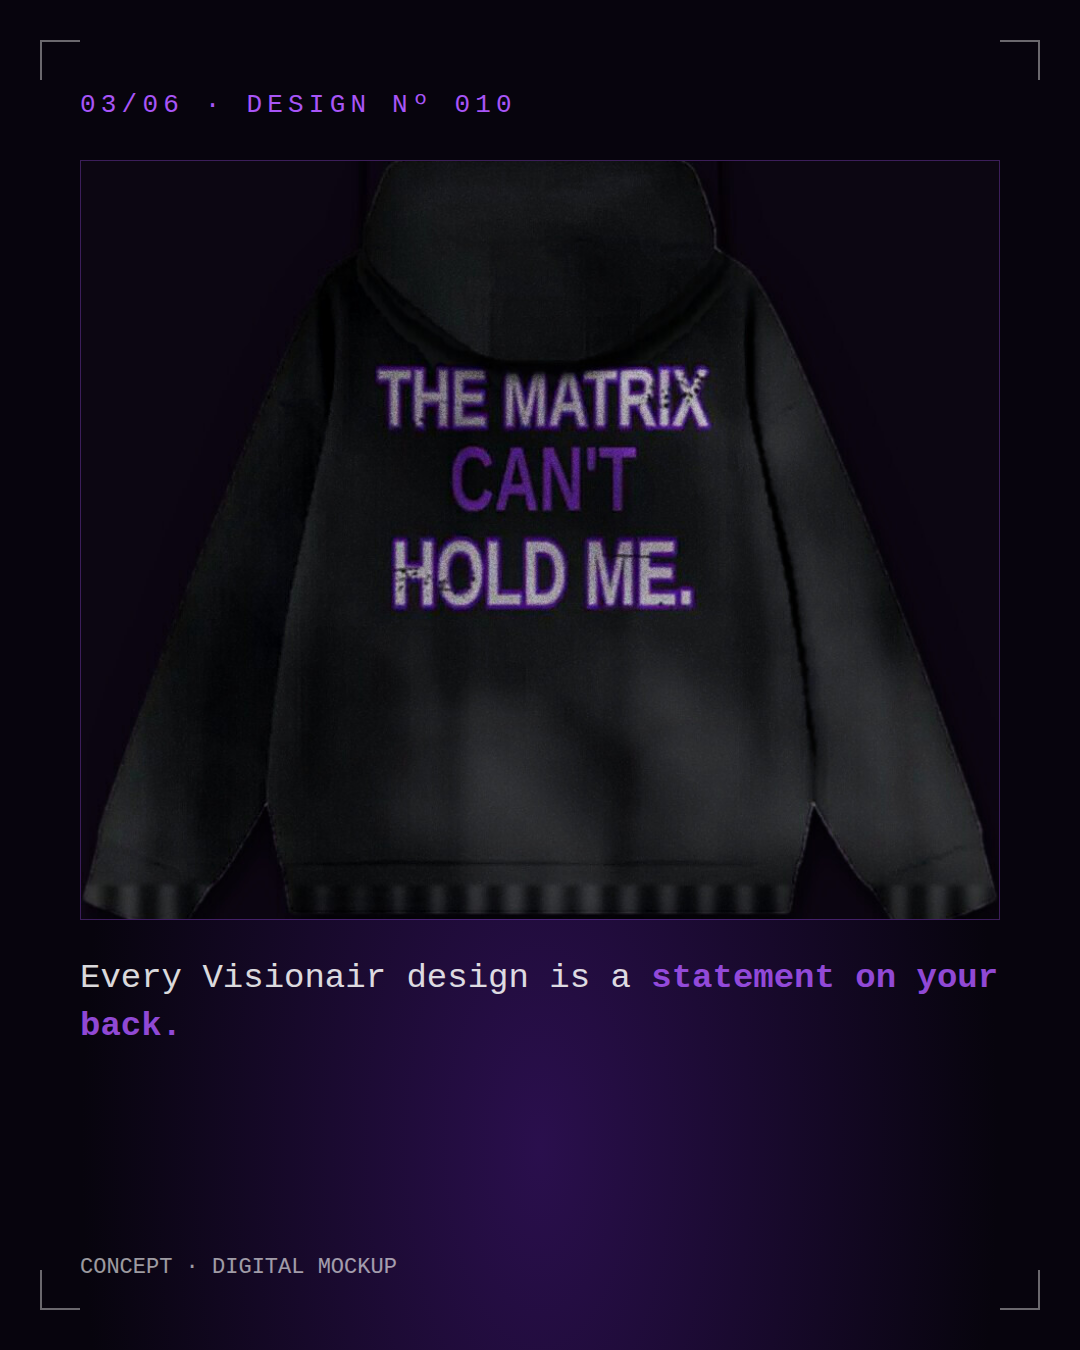
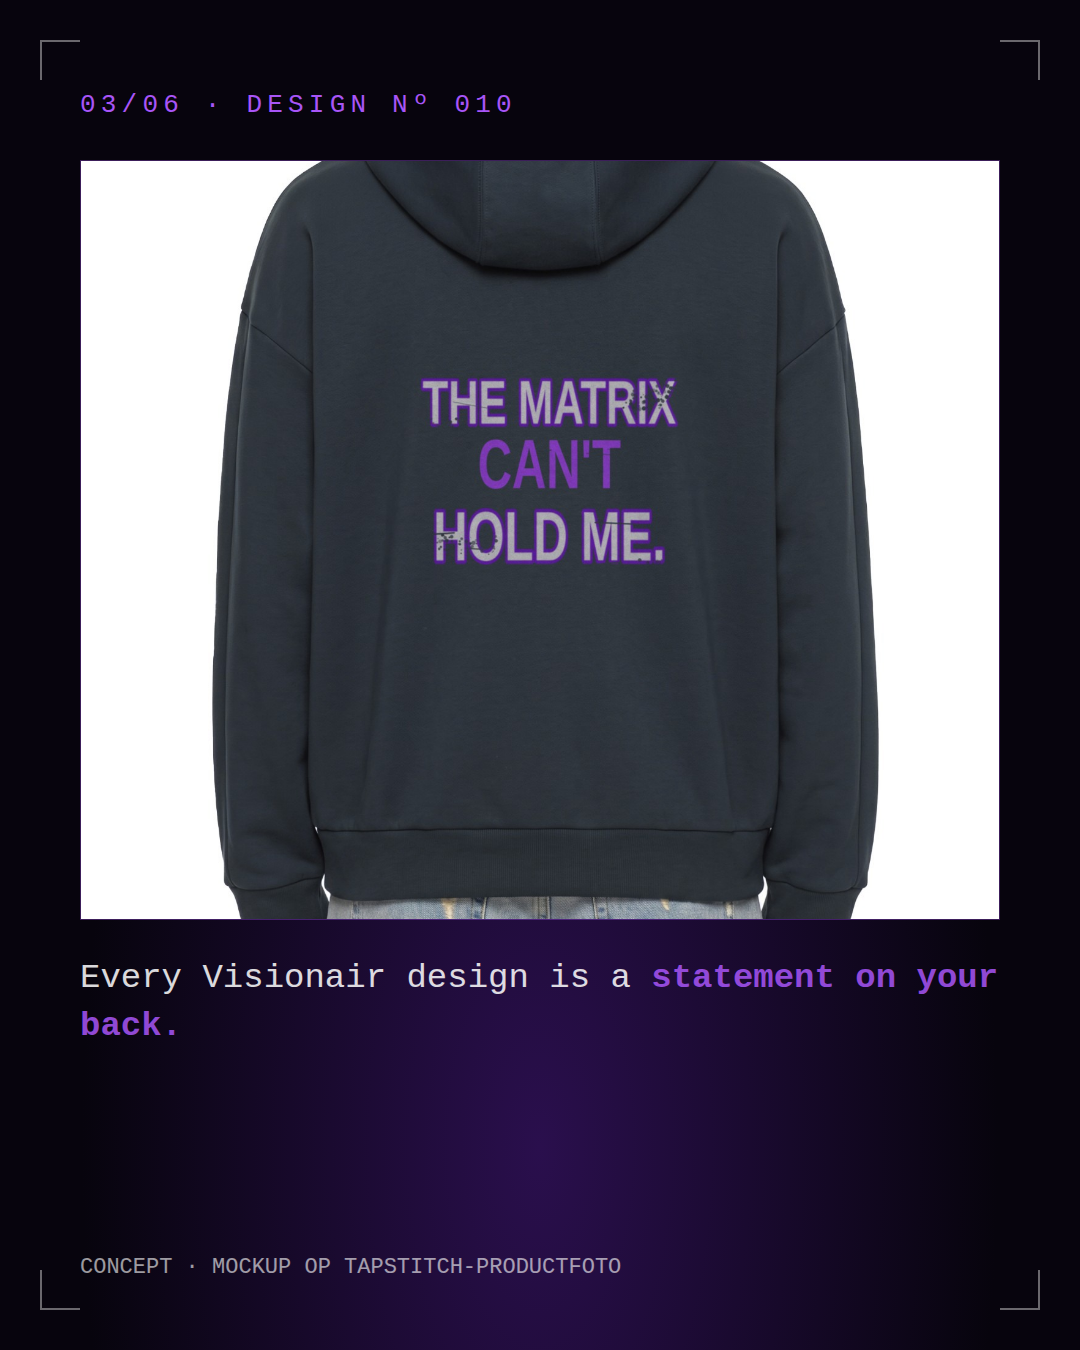
Les 042: productfoto-mockups op Tapstitch-basisfoto's + slides
Claude-Session: https://claude.ai/code/session_01VxmfntShTqejzUpaLZDbQH

diff --git a/studentenpakket-v16/mijn-project/content/batch/slides-bron.html b/studentenpakket-v16/mijn-project/content/batch/slides-bron.html
@@ -16,10 +16,10 @@ p{font-size:34px;line-height:1.4;opacity:.85;margin-top:30px}
 .tag{position:absolute;top:96px;right:80px;font-size:20px;opacity:.55}
 ul{list-style:none;margin-top:40px}li{font-size:38px;padding:22px 0;border-bottom:1px solid #ffffff22}li::before{content:"> ";color:#a855f7}
 </style></head><body>
-<div class="s" id="s1"><i class="c c1"></i><i class="c c2"></i><i class="c c3"></i><i class="c c4"></i><div class="k">VISIONAIR SOCIETY · 01/06</div><h1>150 DESIGNS.<br>6 DROPS.<br><em>ONE SOCIETY.</em></h1><div class="grid"><img src="file:///home/user/187n-codex-hermes-masterclass/studentenpakket-v16/outputs/5.5/2026-10-02-01/content/batch/real/vs-001.jpg"><img src="file:///home/user/187n-codex-hermes-masterclass/studentenpakket-v16/outputs/5.5/2026-10-02-01/content/batch/real/vs-002.jpg"><img src="file:///home/user/187n-codex-hermes-masterclass/studentenpakket-v16/outputs/5.5/2026-10-02-01/content/batch/real/vs-009.jpg"><img src="file:///home/user/187n-codex-hermes-masterclass/studentenpakket-v16/outputs/5.5/2026-10-02-01/content/batch/real/vs-012.jpg"><img src="file:///home/user/187n-codex-hermes-masterclass/studentenpakket-v16/outputs/5.5/2026-10-02-01/content/batch/real/vs-006.jpg"><img src="file:///home/user/187n-codex-hermes-masterclass/studentenpakket-v16/outputs/5.5/2026-10-02-01/content/batch/real/vs-053.jpg"></div><div class="f"><span>CONCEPT · DIGITAL MOCKUPS</span><span>SWIPE →</span></div></div>
+<div class="s" id="s1"><i class="c c1"></i><i class="c c2"></i><i class="c c3"></i><i class="c c4"></i><div class="k">VISIONAIR SOCIETY · 01/06</div><h1>150 DESIGNS.<br>6 DROPS.<br><em>ONE SOCIETY.</em></h1><div class="grid"><img src="/home/user/187n-codex-hermes-masterclass/studentenpakket-v16/mijn-project/brand/mockups/foto/vs-001-back-flat-dark.jpg"><img src="/home/user/187n-codex-hermes-masterclass/studentenpakket-v16/mijn-project/brand/mockups/foto/vs-002-back-flat-dark.jpg"><img src="/home/user/187n-codex-hermes-masterclass/studentenpakket-v16/mijn-project/brand/mockups/foto/vs-009-back-flat-dark.jpg"><img src="/home/user/187n-codex-hermes-masterclass/studentenpakket-v16/mijn-project/brand/mockups/foto/vs-012-back-flat-dark.jpg"><img src="/home/user/187n-codex-hermes-masterclass/studentenpakket-v16/mijn-project/brand/mockups/foto/vs-006-back-flat-dark.jpg"><img src="/home/user/187n-codex-hermes-masterclass/studentenpakket-v16/mijn-project/brand/mockups/foto/vs-053-back-flat-dark.jpg"></div><div class="f"><span>CONCEPT · MOCKUP OP TAPSTITCH-PRODUCTFOTO</span><span>SWIPE →</span></div></div>
 <div class="s" id="s2"><i class="c c1"></i><i class="c c2"></i><i class="c c3"></i><i class="c c4"></i><div class="k">02/06</div><h1 style="margin-top:300px">MOST<br>STREETWEAR<br>SAYS <em>NOTHING.</em></h1><p>Just a logo.</p></div>
-<div class="s" id="s3"><i class="c c1"></i><i class="c c2"></i><i class="c c3"></i><i class="c c4"></i><div class="k">03/06 · DESIGN Nº 010</div><img class="big" src="file:///home/user/187n-codex-hermes-masterclass/studentenpakket-v16/outputs/5.5/2026-10-02-01/content/batch/real/founding-member-hoodie-back.jpg"><p>Every Visionair design is a <b style="color:#a855f7">statement on your back.</b></p><div class="f"><span>CONCEPT · DIGITAL MOCKUP</span><span></span></div></div>
-<div class="s" id="s4"><i class="c c1"></i><i class="c c2"></i><i class="c c3"></i><i class="c c4"></i><div class="k">04/06 · THE DROPS</div><div class="tiles"><div><img src="file:///home/user/187n-codex-hermes-masterclass/studentenpakket-v16/outputs/5.5/2026-10-02-01/content/batch/real/vs-001.jpg"><span>SIMULATION</span></div><div><img src="file:///home/user/187n-codex-hermes-masterclass/studentenpakket-v16/outputs/5.5/2026-10-02-01/content/batch/real/vs-002.jpg"><span>ABDUCTED</span></div><div><img src="file:///home/user/187n-codex-hermes-masterclass/studentenpakket-v16/outputs/5.5/2026-10-02-01/content/batch/real/vs-009.jpg"><span>CLASSIFIED</span></div><div><img src="file:///home/user/187n-codex-hermes-masterclass/studentenpakket-v16/outputs/5.5/2026-10-02-01/content/batch/real/vs-012.jpg"><span>AWAKE</span></div><div><img src="file:///home/user/187n-codex-hermes-masterclass/studentenpakket-v16/outputs/5.5/2026-10-02-01/content/batch/real/vs-006.jpg"><span>BUILD MODE</span></div><div><img src="file:///home/user/187n-codex-hermes-masterclass/studentenpakket-v16/outputs/5.5/2026-10-02-01/content/batch/real/vs-053.jpg"><span>THE SOCIETY</span></div></div><div class="f"><span>CONCEPT · DIGITAL MOCKUPS</span><span>25 DESIGNS PER DROP</span></div></div>
+<div class="s" id="s3"><i class="c c1"></i><i class="c c2"></i><i class="c c3"></i><i class="c c4"></i><div class="k">03/06 · DESIGN Nº 010</div><img class="big" src="/home/user/187n-codex-hermes-masterclass/studentenpakket-v16/mijn-project/brand/mockups/foto/fm-010-back-model.jpg"><p>Every Visionair design is a <b style="color:#a855f7">statement on your back.</b></p><div class="f"><span>CONCEPT · MOCKUP OP TAPSTITCH-PRODUCTFOTO</span><span></span></div></div>
+<div class="s" id="s4"><i class="c c1"></i><i class="c c2"></i><i class="c c3"></i><i class="c c4"></i><div class="k">04/06 · THE DROPS</div><div class="tiles"><div><img src="/home/user/187n-codex-hermes-masterclass/studentenpakket-v16/mijn-project/brand/mockups/foto/vs-001-back-flat-dark.jpg"><span>SIMULATION</span></div><div><img src="/home/user/187n-codex-hermes-masterclass/studentenpakket-v16/mijn-project/brand/mockups/foto/vs-002-back-flat-dark.jpg"><span>ABDUCTED</span></div><div><img src="/home/user/187n-codex-hermes-masterclass/studentenpakket-v16/mijn-project/brand/mockups/foto/vs-009-back-flat-dark.jpg"><span>CLASSIFIED</span></div><div><img src="/home/user/187n-codex-hermes-masterclass/studentenpakket-v16/mijn-project/brand/mockups/foto/vs-012-back-flat-dark.jpg"><span>AWAKE</span></div><div><img src="/home/user/187n-codex-hermes-masterclass/studentenpakket-v16/mijn-project/brand/mockups/foto/vs-006-back-flat-dark.jpg"><span>BUILD MODE</span></div><div><img src="/home/user/187n-codex-hermes-masterclass/studentenpakket-v16/mijn-project/brand/mockups/foto/vs-053-back-flat-dark.jpg"><span>THE SOCIETY</span></div></div><div class="f"><span>CONCEPT · MOCKUP OP TAPSTITCH-PRODUCTFOTO</span><span>25 DESIGNS PER DROP</span></div></div>
 <div class="s" id="s5"><i class="c c1"></i><i class="c c2"></i><i class="c c3"></i><i class="c c4"></i><div class="k">05/06 · THE HOODIE</div><h1 style="font-size:80px">YOUR NUMBER IS YOUR <em>MEMBERSHIP.</em></h1><ul><li>Black · 500 gsm</li><li>Boxy oversized · S–2XL</li><li>Design on the back</li><li>Founding Member access</li></ul></div>
 <div class="s" id="s6"><i class="c c1"></i><i class="c c2"></i><i class="c c3"></i><i class="c c4"></i><div class="k">06/06</div><img class="logo" src="file:///home/user/187n-codex-hermes-masterclass/studentenpakket-v16/mijn-project/storefront/assets/img/logo-white.png"><h1 style="text-align:center;font-size:84px">POP-UP IN EUROPE <em>FIRST.</em></h1><p style="text-align:center">Online 7 days later.<br>Follow to get the date.</p><div style="text-align:center"><span class="cta">> JOIN THE SOCIETY</span></div></div>
 <div class="s" id="a3"><i class="c c1"></i><i class="c c2"></i><i class="c c3"></i><i class="c c4"></i><div class="k">FOUNDING MEMBER HOODIE</div><h1 style="font-size:84px">WHAT DO YOU<br>ACTUALLY GET<br>FOR <em>€64,95?</em></h1><ul><li>Heavyweight 500 gsm fleece</li><li>Boxy oversized fit</li><li>Design on the back, VS logo left chest</li><li>Your own member number</li><li>Founding Member access</li></ul><div><span class="cta">> JOIN THE SOCIETY</span></div><div class="tag">CONCEPT</div></div>

diff --git a/studentenpakket-v16/mijn-project/brand/mockups/bases/HERKOMST.md b/studentenpakket-v16/mijn-project/brand/mockups/bases/HERKOMST.md
@@ -1,0 +1,4 @@
+# Basisfoto's
+tapstitch-1..5.jpg — aangeleverd door student (2026-10-02), blanke Tapstitch-productfoto's (flat voor/achter, model voor/achter/zij).
+Gebruik: als ondergrond voor eigen mockups via foto-mockup.sh. Gebruiksrechten van leveranciersfoto's voor publicatie: door student te bevestigen bij Tapstitch.
+Let op: modelfoto's tonen een antraciet/donkerblauwe blank, niet exact zwart.
